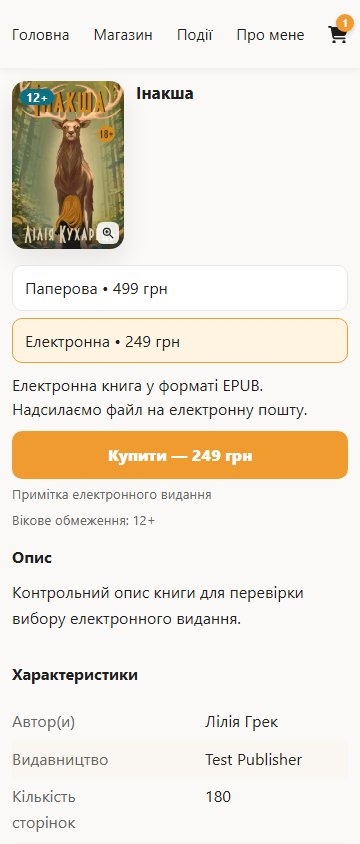
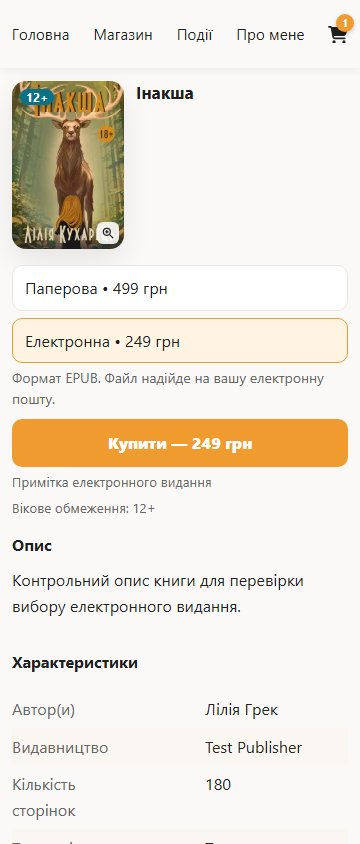
style: tighten ebook delivery guidance (ZVY-65) [skip netlify]

Changed region(s): [[0.0306, 0.4313, 0.9778, 0.7393], [0.0306, 0.7701, 0.3972, 0.9858], [0.55, 0.8318, 0.825, 0.955]]

diff --git a/tests/e2e/ebook-delivery.spec.ts b/tests/e2e/ebook-delivery.spec.ts
@@ -3,7 +3,7 @@ import { mkdir } from "node:fs/promises";
 import path from "node:path";
 import { makeProduct, mockApiUrl, resetMockApi } from "./helpers";
 
-const deliveryCopy = "Електронна книга у форматі EPUB. Надсилаємо файл на електронну пошту.";
+const deliveryCopy = "Формат EPUB. Файл надійде на вашу електронну пошту.";
 const books = [
   { slug: "zvychajna", name: "Звичайна", suffix: "1", price: 199, discountPrice: 179 },
   { slug: "inaksha", name: "Інакша", suffix: "2", price: 249, discountPrice: null },
@@ -104,6 +104,11 @@ for (const viewport of [{ width: 1440, height: 900 }, { width: 390, height: 844 
         await expect(page.getByRole("button", { name: "Додати в кошик", exact: true, includeHidden: true })).toHaveAccessibleDescription(deliveryCopy);
         const copyBox = await copy.boundingBox();
         const buyBox = await buy.boundingBox();
+        const optionBox = await digital.locator("..").boundingBox();
+        expect(copyBox!.y - (optionBox!.y + optionBox!.height)).toBeGreaterThanOrEqual(0);
+        expect(copyBox!.y - (optionBox!.y + optionBox!.height)).toBeLessThanOrEqual(12);
+        expect(await copy.evaluate(node => Number.parseFloat(getComputedStyle(node).fontSize)
+          < Number.parseFloat(getComputedStyle(document.body).fontSize))).toBe(true);
         expect(copyBox!.y + copyBox!.height).toBeLessThanOrEqual(buyBox!.y);
         await page.getByRole("radio", { name: /Паперова/ }).check();
         await expect(copy).toHaveCount(0);

diff --git a/src/components/organisms/BookDetail.tsx b/src/components/organisms/BookDetail.tsx
@@ -252,7 +252,7 @@ export default function BookDetail({ product: staticProduct }: { product: Produc
                           <div className={styles.buybar}>
                               {ebookDeliveryId && (
                                   <p id={ebookDeliveryId} className={styles.ebookDelivery}>
-                                      Електронна книга у форматі EPUB. Надсилаємо файл на електронну пошту.
+                                      Формат EPUB. Файл надійде на вашу електронну пошту.
                                   </p>
                               )}
                               <div className={styles.buyButtons}>

diff --git a/src/components/organisms/BookDetail.module.css b/src/components/organisms/BookDetail.module.css
@@ -102,7 +102,7 @@
 .disabled { opacity: .55; cursor: not-allowed; }
 
 .buybar { display: grid; gap: 6px; padding: 6px 0; }
-.ebookDelivery { margin: 10px 0 0; font-size: 1rem; line-height: 1.5; color: var(--text); overflow-wrap: anywhere; }
+.ebookDelivery { margin: 4px 0 0; font-size: .875rem; line-height: 1.5; color: var(--muted); overflow-wrap: anywhere; }
 .ebookDelivery + .buyButtons { margin-top: 6px; }
 .buyButtons { display: flex; gap: 10px; margin-top: 18px; }
 .buy { flex: 1; display: inline-block; padding: 13px 16px; border-radius: 12px; border: none; background: var(--accent); color: #fff; font-weight: 800; cursor: pointer; }

diff --git a/docs/storefront-ebook-delivery/REPORT.md b/docs/storefront-ebook-delivery/REPORT.md
@@ -4,16 +4,17 @@ Verification date: 2026-10-07 (Europe/Kyiv). Issue: [ZVY-65](https://linear.app/
 
 ## Implemented behavior and changed files
 
-When the currently selected product item is digital, its purchase controls show **Електронна книга у форматі EPUB. Надсилаємо файл на електронну пошту.** above the buttons. Both purchase buttons reference this text through `aria-describedby`. The explanation disappears when the customer chooses paper, and follows the selected item through live price, preorder and availability changes. A failed refresh retains the last confirmed selection and its explanation.
+When the currently selected product item is digital, its purchase controls show **Формат EPUB. Файл надійде на вашу електронну пошту.** above the buttons. Both purchase buttons reference this text through `aria-describedby`. The explanation disappears when the customer chooses paper, and follows the selected item through live price, preorder and availability changes. A failed refresh retains the last confirmed selection and its explanation.
 
-The paragraph uses the existing text color, a 1rem font and wrapping at narrow widths. The exact selected item continues to determine the effective price, purchase eligibility, notes and cart identity. Product specifications, cart/checkout copy, edition preferences, navigation and dialog behavior are preserved. There are no delivery-time or reader-compatibility promises, API changes or backend changes. Completed preorder guidance from ZVY-66 is preserved; initial ebook fallback remains ZVY-63's scope.
+The paragraph uses the existing muted text color, a .875rem (14px at the default root size) font and wrapping at narrow widths. Its top margin is 4px, reduced from 10px; it stays close to the selected option and above the purchase buttons. The exact selected item continues to determine the effective price, purchase eligibility, notes and cart identity. Product specifications, cart/checkout copy, edition preferences, navigation and dialog behavior are preserved. There are no delivery-time or reader-compatibility promises, API changes or backend changes. Completed preorder guidance from ZVY-66 is preserved; initial ebook fallback remains ZVY-63's scope.
 
 Changed-file inventory:
 
 - Modified `src/components/organisms/BookDetail.tsx`: conditional selected-ebook explanation and purchase-button accessible descriptions.
 - Modified `src/components/organisms/BookDetail.module.css`: readable wrapping and paragraph/button spacing.
 - Created `tests/e2e/ebook-delivery.spec.ts`: 12 deterministic tests covering both book routes, selected edition/price, keyboard purchase, cart identity/quantity/amount, Escape/focus restoration, live price/preorder/unavailability and failed refresh.
-- Created this report and 18 JPEG evidence files linked below.
+- Created this report, 18 before/after JPEG evidence files and six previous-note captures linked below.
+- Modified frontend `AGENTS.md` and `README.md`: Netlify deployments require explicit approval; frontend commits and PR titles include `[skip netlify]` by default. Backend instructions are unchanged.
 
 ## Recorded environment and fixtures
 
@@ -36,6 +37,13 @@ Changed-file inventory:
 
 The approved historical baseline remains linked from the issue and decision log. These new captures compare the unchanged current base with this change using identical controlled data and viewport dimensions. Cart evidence verifies preservation of the selected ebook; its copy has not changed.
 
+The owner requested a shorter, smaller and lighter explanation closer to the selected ebook on 2026-10-07, choosing the final wording above. The `after` images show that refinement; `previous` preserves the initial note for comparison:
+
+| Previous note | Desktop 1440×900 | Mobile 390×844 | Narrow 360×844 |
+| --- | --- | --- | --- |
+| Звичайна ebook | [Previous](previous/SCR-03-digital-1440x900.jpg) | [Previous](previous/SCR-03-digital-390x844.jpg) | [Previous](previous/SCR-03-digital-360x844.jpg) |
+| Інакша ebook | [Previous](previous/SCR-03-sequel-digital-1440x900.jpg) | [Previous](previous/SCR-03-sequel-digital-390x844.jpg) | [Previous](previous/SCR-03-sequel-digital-360x844.jpg) |
+
 ## Acceptance results and validation
 
 | Acceptance criterion | Local result |
@@ -48,8 +56,9 @@ Local validation:
 - `npm run lint`: pass.
 - `npm run typecheck`: pass.
 - `npm run test:fixtures`: pass, four fixture contracts.
-- `npm run build:ci`: pass, standalone production build with the deterministic local API. Browser-suite setup also built and ran the production application successfully.
-- `npm run test:e2e -- ebook-delivery preorder-labels accessibility keyboard-navigation book-excerpt mobile-purchase purchase-flow`: **63 passed**, including all 12 new checks.
+- The initial implementation passed standalone `npm run build:ci` with the deterministic local API. The refined version's browser-suite setup also built and ran the production application successfully.
+- Initial implementation: `npm run test:e2e -- ebook-delivery preorder-labels accessibility keyboard-navigation book-excerpt mobile-purchase purchase-flow`: **63 passed**, including all 12 new checks.
+- Owner-requested refinement: `npm run test:e2e -- ebook-delivery accessibility keyboard-navigation`: **26 passed**. Added assertions verify that the note stays close to the selected option and its text is smaller than body copy; item/amount, wrapping and keyboard checks remain intact.
 - Regression control on the unchanged base: the selected-ebook test fails at the missing delivery paragraph at all three widths. The same assertion passes after implementation.
 - `git diff --check`: pass.
 
@@ -57,7 +66,9 @@ Reproduce the focused checks with `npm run test:e2e -- ebook-delivery`. Set `ZVY
 
 ## Review and final verification handoff
 
-The review PR's required `verify` check is the remote CI gate for its exact head. Its results are recorded on the PR; local checks alone do not satisfy that requirement. Code review and availability in the recorded shared verification environment remain required before ZVY-58's final journey verification. This report records the local production environment, and does not claim owner approval or final journey completion.
+The review PR's required `verify` check is the remote CI gate for its exact head. Its results are recorded on the PR; local checks alone do not satisfy that requirement. Code review and availability in the recorded shared verification environment remain required before ZVY-58's final journey verification. This report records the local production environment, and does not claim final journey completion.
+
+The owner explicitly requested `[skip netlify]` for the refinement. Both follow-up commits and PR #39's title carry the tag; deployment requires separate explicit approval. The earlier provider preview for the initial application revision `e61326f` is not evidence of the refined UI. The updated screenshots and local production test environment above record the current behavior; shared provider verification remains deferred.
 
 Real-phone interaction, mobile software-keyboard obstruction, screen-reader speech and real provider/payment outcomes require separate evidence or explicit owner disposition in ZVY-58. Emulated touch, accessible-description assertions and keyboard tests are separate evidence. The approved existing brand contrast exception is preserved.
 
